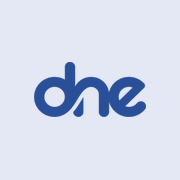
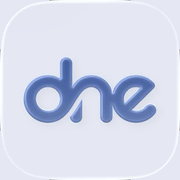
Usa o ícone verdadeiro e refaz a tela de entrada
Com a página da App Store e uma captura reta da tela de acesso, deu
para trocar o que antes era palpite por medida.

Ícone
- Os quatro ícones passam a ser o ícone do próprio aplicativo,
  recortado da App Store: fundo #E5E8F3 e o logotipo em relevo.
  O que estava no lugar era uma reconstrução a partir da tela de
  abertura — perto, mas sem o relevo e com o azul errado.
- O arredondamento da loja foi preenchido com o fundo do ícone, senão
  o iOS aplicaria a máscara dele por cima e sobrariam cantos escuros.
- No "maskable" o conteúdo encolhe para 78%, dentro da zona segura.

Tela de entrada
Era logotipo, um parágrafo e três botões empilhados; virou a tela do
aplicativo, com as posições conferidas uma a uma (todas dentro de 1px):
- selo azul de 106px, folha branca começando em 190px com os cantos
  de cima arredondados e colada no rodapé;
- campos de 370x56 com borda preta, "CPF ou Código de Uso" com o
  ícone de QR e "Data de nascimento" com máscara de dia/mês/ano;
- botão "Entrar" apagado até os dois campos terem conteúdo, como no
  original, e as pílulas de 40px com a seta;
- divisor "OU", o texto da solicitação e o link da meia-entrada.

O login pedia CPF e senha; passa a pedir CPF e data de nascimento,
que é o que o aplicativo pede. O link da meia-entrada leva à tela de
certificado da réplica e, sem documento montado, explica isso em vez
de não fazer nada. "Ver um exemplo pronto" continua, discreto no
rodapé — não existe no original, mas é o que permite ver o app sem
[…]

diff --git a/index.html b/index.html
@@ -52,6 +52,7 @@
     <g id="i-carteira" fill="none" stroke="currentColor" stroke-width="1.8" stroke-linecap="round" stroke-linejoin="round"><rect x="2.5" y="5" width="19" height="14" rx="2.5"/><circle cx="8.5" cy="11" r="2.2"/><path d="M5.5 16.2c.6-1.5 1.7-2.2 3-2.2s2.4.7 3 2.2M14.5 9.8h4M14.5 13h4"/></g>
     <g id="i-beneficio" fill="none" stroke="currentColor" stroke-width="1.8" stroke-linecap="round" stroke-linejoin="round"><path d="M20.6 12.6 12.6 20.6a2 2 0 0 1-2.8 0l-6.4-6.4a2 2 0 0 1-.6-1.4V4.5a2 2 0 0 1 2-2h8.3a2 2 0 0 1 1.4.6l6.1 6.1a2 2 0 0 1 0 2.8Z"/><circle cx="7.8" cy="7.8" r="1.4"/></g>
     <g id="i-perfil" fill="none" stroke="currentColor" stroke-width="1.8" stroke-linecap="round" stroke-linejoin="round"><circle cx="12" cy="8" r="3.6"/><path d="M4.5 20c.7-3.7 3.8-5.6 7.5-5.6s6.8 1.9 7.5 5.6"/></g>
+    <g id="i-seta" fill="none" stroke="currentColor" stroke-width="2" stroke-linecap="round" stroke-linejoin="round"><path d="M4 12h15M13.5 6.5 19.5 12l-6 5.5"/></g>
     <g id="i-cadeado" fill="none" stroke="currentColor" stroke-width="1.9" stroke-linecap="round" stroke-linejoin="round"><rect x="5.2" y="10.6" width="13.6" height="10.4" rx="2.5"/><path d="M8.6 10.6V7.7a3.4 3.4 0 0 1 6.8 0V9"/><circle cx="12" cy="15.8" r="1.15" fill="currentColor" stroke="none"/></g>
     <g id="i-qr" fill="none" stroke="currentColor" stroke-width="1.8" stroke-linecap="round" stroke-linejoin="round"><rect x="3" y="3" width="7" height="7" rx="1.5"/><rect x="14" y="3" width="7" height="7" rx="1.5"/><rect x="3" y="14" width="7" height="7" rx="1.5"/><path d="M14 14h3v3h-3zM20 14v3M14 20h3M20 20h1"/></g>
     <g id="i-renovar" fill="none" stroke="currentColor" stroke-width="1.8" stroke-linecap="round" stroke-linejoin="round"><path d="M20 11a8 8 0 0 0-14-4.5L4 9"/><path d="M4 4v5h5"/><path d="M4 13a8 8 0 0 0 14 4.5L20 15"/><path d="M20 20v-5h-5"/></g>
@@ -79,48 +80,44 @@
 
 <!-- ============================== LOGIN ============================== -->
 <section class="tela" id="tela-login" aria-label="Entrar">
-  <div class="login-corpo">
-    <div class="login-marca">
-      <div class="logo-dne">dne</div>
-      <p>Documento Nacional do Estudante</p>
-    </div>
+  <!-- Medidas da captura do aplicativo real (iPhone 402pt): selo de 106px,
+       folha branca começando em 190px, campos de 370x56 e botões de 40. -->
+  <div class="entrada-marca">
+    <span class="selo-dne"><span class="logo-dne">dne</span></span>
+  </div>
 
-    <!-- primeira abertura: a pessoa monta o próprio documento -->
-    <div id="bloco-boas-vindas">
-      <p class="abertura-txt">
-        Olá! Monte o seu documento de estudante e tenha a meia-entrada sempre à mão.
-        Coloque a sua foto, o seu nome e os dados da sua instituição.
-      </p>
-      <div class="pilha">
-        <button class="btn" type="button" data-ir="solicitar">Criar o meu documento</button>
-        <button class="btn secundario" type="button" id="btn-demo">Ver um exemplo pronto</button>
-        <button class="btn fantasma" type="button" id="btn-mostrar-login">Já tenho o meu DNE</button>
-      </div>
-    </div>
+  <div class="entrada-folha">
+    <h1 class="entrada-titulo">Já possui o DNE? Para acessar informe:</h1>
 
-    <!-- entrada por CPF e senha, no formato do aplicativo original -->
-    <form id="form-login" novalidate hidden>
-      <p class="abertura-txt">
-        Que bom te ver de novo. Para começar, informe o seu CPF.
-      </p>
-      <div class="campo-linha" id="cf-login-cpf">
-        <label for="login-cpf">CPF</label>
+    <form id="form-login" novalidate>
+      <div class="campo-caixa" id="cf-login-cpf">
         <input id="login-cpf" name="cpf" type="tel" inputmode="numeric" autocomplete="username"
-               placeholder="000.000.000-00" maxlength="14">
-        <p class="ajuda">Digite apenas números</p>
-        <p class="erro">Informe um CPF válido.</p>
+               placeholder="CPF ou Código de Uso" maxlength="14" aria-label="CPF ou Código de Uso">
+        <span class="campo-icone" aria-hidden="true"><svg><use href="#i-qr"/></svg></span>
       </div>
-      <div class="campo-linha" id="cf-login-senha">
-        <label for="login-senha">Senha</label>
-        <input id="login-senha" name="senha" type="password" autocomplete="current-password" placeholder="••••••">
-        <p class="erro">A senha precisa ter ao menos 4 caracteres.</p>
+      <p class="erro">Informe um CPF válido.</p>
+
+      <div class="campo-caixa" id="cf-login-nasc">
+        <input id="login-nasc" name="nascimento" type="tel" inputmode="numeric"
+               placeholder="Data de nascimento" maxlength="10" aria-label="Data de nascimento">
       </div>
-      <div class="pilha mt-24">
-        <button class="btn" type="submit">Continuar</button>
-        <button class="btn fantasma" type="button" id="btn-voltar-boas-vindas">Voltar</button>
-      </div>
+      <p class="erro">Informe a data de nascimento, no formato dia/mês/ano.</p>
+
+      <button class="pilula" type="submit" id="btn-entrar" disabled>
+        <svg class="seta" viewBox="0 0 24 24"><use href="#i-seta"/></svg> Entrar
+      </button>
     </form>
 
+    <div class="ou"><span>OU</span></div>
+
+    <p class="entrada-txt">Solicite um DNE Documento Nacional do Estudante ou acompanhe sua solicitação.</p>
+    <button class="pilula azul" type="button" data-ir="solicitar">
+      <svg class="seta" viewBox="0 0 24 24"><use href="#i-seta"/></svg> Solicite ou acompanhe
+    </button>
+
+    <hr class="entrada-risco">
+    <button class="entrada-link" type="button" id="btn-validar">Valide sua carteirinha no Meia-Entrada.org</button>
+    <button class="entrada-demo" type="button" id="btn-demo">Ver um exemplo pronto</button>
   </div>
 </section>
 

diff --git a/css/app.css b/css/app.css
@@ -457,15 +457,73 @@ body.sem-tabbar .tabbar { display: none; }
 
 /* ------------------------------------------------------ abertura e splash */
 #tela-login { background: var(--superficie); min-height: 100vh; min-height: 100dvh; }
-.login-corpo {
-  min-height: 100vh; min-height: 100dvh; max-width: 460px; margin: 0 auto;
-  padding: calc(var(--topo) + 34px) 26px calc(var(--base) + 26px);
-  display: flex; flex-direction: column;
+/* ------------------------------------------------- tela de entrada */
+/* Reproduz a tela de acesso do aplicativo: selo redondo azul, folha
+   branca colada no rodapé, campos com borda preta e botões em pílula.
+   Medidas tiradas da captura (iPhone 402pt). */
+#tela-login { min-height: 100dvh; display: flex; flex-direction: column; background: var(--fundo); }
+.entrada-marca { flex: none; display: grid; place-items: center;
+  padding: calc(70px + var(--topo)) 0 15px; }
+.selo-dne {
+  width: 106px; height: 106px; display: grid; place-items: center;
+  background: var(--azul); border-radius: 44px;
 }
-.login-marca { text-align: center; margin-bottom: 26px; }
-.login-marca .logo-dne { font-size: 70px; }
-.login-marca p { margin: 8px 0 0; font-size: 17px; color: var(--texto-2); font-weight: 600; line-height: 1.35; }
-.abertura-txt { font-size: 20px; font-weight: 600; line-height: 1.4; color: var(--texto); margin: 0 0 22px; }
+.selo-dne .logo-dne { font-size: 34px; background: #fff; }
+
+.entrada-folha {
+  flex: 1; background: var(--superficie);
+  border-radius: 26px 26px 0 0;
+  padding: 38px 16px calc(24px + var(--base));
+  box-shadow: 0 -2px 18px rgba(27, 42, 90, .06);
+}
+.entrada-titulo { font-size: 17px; font-weight: 700; line-height: 1.28; margin: 0 0 28px; color: var(--texto); }
+
+.campo-caixa {
+  position: relative; display: flex; align-items: center;
+  height: 56px; border: 1px solid #000; border-radius: 10px; background: var(--superficie);
+}
+.campo-caixa input {
+  flex: 1; height: 100%; border: none; outline: none; background: none;
+  padding: 0 14px; font-size: 16px; color: var(--texto);
+}
+.campo-caixa input::placeholder { color: #747878; }
+.campo-caixa .campo-icone { display: grid; place-items: center; width: 46px; color: var(--texto); }
+.campo-caixa .campo-icone svg { width: 21px; height: 21px; }
+.campo-caixa + .erro { display: none; }
+.invalido .campo-caixa { border-color: var(--vermelho); }
+.invalido + .erro { display: block; font-size: 12.5px; color: var(--vermelho); margin: 6px 2px 0; }
+#cf-login-nasc { margin-top: 32px; }
+
+/* botões em pílula, 40px de altura, como no aplicativo */
+.pilula {
+  display: flex; align-items: center; justify-content: center; gap: 10px;
+  width: 100%; height: 40px; margin-top: 28px;
+  border: none; border-radius: 999px; cursor: pointer;
+  font-size: 15.5px; font-weight: 500;
+  background: #e0e0e0; color: #8b8b8b;
+}
+.pilula .seta { width: 17px; height: 17px; }
+.pilula:not(:disabled) { background: var(--azul); color: #fff; }
+.pilula.azul { background: var(--azul); color: #fff; }
+.pilula:disabled { cursor: default; }
+.pilula:not(:disabled):active { transform: scale(.99); }
+
+.ou { display: flex; align-items: center; gap: 14px; margin: 37px 0 0; color: var(--texto); }
+.ou::before, .ou::after { content: ""; flex: 1; height: 1px; background: #9ea3a3; }
+.ou span { font-size: 15px; }
+
+.entrada-txt { font-size: 16.8px; line-height: 1.45; color: var(--texto); margin: 26px 0 0; }
+.entrada-risco { border: none; border-top: 1px solid #9ea3a3; margin: 28px 0 0; }
+.entrada-link {
+  display: block; width: 100%; margin-top: 22px;
+  background: none; border: none; cursor: pointer;
+  font-size: 15px; color: var(--azul);
+}
+.entrada-demo {
+  display: block; width: 100%; margin-top: 26px;
+  background: none; border: none; cursor: pointer;
+  font-size: 13px; color: var(--texto-3);
+}
 .login-rodape { margin-top: auto; padding-top: 24px; text-align: center; font-size: 11.5px; color: var(--texto-3); line-height: 1.5; }
 
 #splash {

diff --git a/js/app.js b/js/app.js
@@ -762,15 +762,30 @@
 
     window.addEventListener('hashchange', aplicarRota);
 
-    /* --- login --- */
-    $('#login-cpf').addEventListener('input', function () { this.value = mascaraCpf(this.value); });
+    /* --- login: CPF e data de nascimento, como no aplicativo --- */
+    function mascaraData(v) {
+      var d = v.replace(/\D/g, '').slice(0, 8);
+      if (d.length > 4) return d.slice(0, 2) + '/' + d.slice(2, 4) + '/' + d.slice(4);
+      if (d.length > 2) return d.slice(0, 2) + '/' + d.slice(2);
+      return d;
+    }
+    function conferirEntrar() {
+      // o botão só acende com os dois campos preenchidos, como no original
+      $('#btn-entrar').disabled = !($('#login-cpf').value.trim() && $('#login-nasc').value.trim());
+    }
+    $('#login-cpf').addEventListener('input', function () {
+      this.value = mascaraCpf(this.value); conferirEntrar();
+    });
+    $('#login-nasc').addEventListener('input', function () {
+      this.value = mascaraData(this.value); conferirEntrar();
+    });
     $('#form-login').addEventListener('submit', function (ev) {
       ev.preventDefault();
       var okCpf = cpfValido($('#login-cpf').value);
-      var okSenha = $('#login-senha').value.length >= 4;
+      var okNasc = /^\d{2}\/\d{2}\/\d{4}$/.test($('#login-nasc').value);
       $('#cf-login-cpf').classList.toggle('invalido', !okCpf);
-      $('#cf-login-senha').classList.toggle('invalido', !okSenha);
-      if (!okCpf || !okSenha) return;
+      $('#cf-login-nasc').classList.toggle('invalido', !okNasc);
+      if (!okCpf || !okNasc) return;
       if (!estado.estudante) {
         estado.estudante = JSON.parse(JSON.stringify(DADOS.estudanteDemo));
         estado.estudante.cpf = mascaraCpf($('#login-cpf').value);
@@ -781,16 +796,14 @@
       salvar();
       ir('inicio');
     });
+    // No aplicativo original este link abre o site da meia-entrada. Aqui a
+    // validação é a tela de certificado da própria réplica, que só existe
+    // depois que a pessoa monta o documento.
+    $('#btn-validar').addEventListener('click', function () {
+      if (estado.estudante) ir('certificado');
+      else aviso('A validação aparece depois que você monta o seu documento.');
+    });
     $('#btn-demo').addEventListener('click', entrarComoDemo);
-    $('#btn-mostrar-login').addEventListener('click', function () {
-      $('#bloco-boas-vindas').hidden = true;
-      $('#form-login').hidden = false;
-      $('#login-cpf').focus();
-    });
-    $('#btn-voltar-boas-vindas').addEventListener('click', function () {
-      $('#form-login').hidden = true;
-      $('#bloco-boas-vindas').hidden = false;
-    });
 
     /* --- carteirinha --- */
     $('#btn-apresentar-topo').addEventListener('click', function () { ir('apresentar'); });
@@ -914,8 +927,8 @@
     $('#btn-sair').addEventListener('click', function () {
       estado.logado = false;
       salvar();
-      $('#form-login').hidden = true;
-      $('#bloco-boas-vindas').hidden = false;
+      $('#form-login').reset();
+      $('#btn-entrar').disabled = true;
       ir('login');
     });
     $('#btn-limpar').addEventListener('click', function () {

diff --git a/sw.js b/sw.js
@@ -3,7 +3,7 @@
  * Guarda os arquivos do app em cache para que ele abra sem internet,
  * que é o que permite instalar como aplicativo no iPhone.
  */
-const CACHE = 'dne-replica-v4';
+const CACHE = 'dne-replica-v5';
 
 const ARQUIVOS = [
   './',

diff --git a/README.md b/README.md
@@ -119,7 +119,8 @@ o app não depende de servidor de terceiros e continua igual offline. A licença
 `assets/fontes/LICENCA.txt`.
 
 O logotipo `dne` em `assets/img/` foi **extraído da captura do aplicativo**, com recuperação
-do canal alfa, e é usado como máscara CSS para acompanhar o tema claro/escuro. Os selos da
+do canal alfa, e é usado como máscara CSS para acompanhar o tema claro/escuro. Os ícones em
+`assets/icone-*.png` são o próprio ícone do aplicativo, recortado da página da App Store. Os selos da
 UNE, da UBES e da ANPG continuam sendo desenhos próprios, feitos no mesmo estilo — não são
 os arquivos de marca das entidades. Nada disso implica vínculo com a UNE, a UBES ou a ANPG:
 é uma réplica acadêmica, para estudo de interface.
